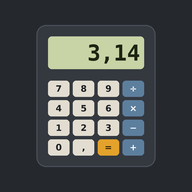
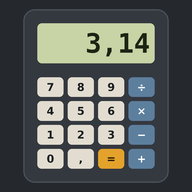
Add files via upload

diff --git a/index.html b/index.html
@@ -360,7 +360,7 @@ function pos(z){
 }
 const nz=s=>s.normalize('NFD').replace(/[\u0300-\u036f]/g,'').toLowerCase();
 const PD='2.20,-259.2,-252.9,0.0899,1312|,,-268.9,0.1786,2372|0.98,180.5,1342,0.534,520|1.57,1287,2470,1.85,900|2.04,2076,3927,2.34,801|2.55,3550,4027,2.267,1087|3.04,-210,-195.8,1.2506,1402|3.44,-218.8,-183,1.429,1314|3.98,-219.7,-188.1,1.696,1681|,-248.6,-246.1,0.9002,2081|0.93,97.8,883,0.971,496|1.31,650,1090,1.738,738|1.61,660.3,2519,2.70,578|1.90,1414,3265,2.329,787|2.19,44.2,280.5,1.823,1012|2.58,115.2,444.6,2.067,1000|3.16,-101.5,-34,3.214,1251|,-189.3,-185.8,1.784,1521|0.82,63.5,759,0.862,419|1.00,842,1484,1.55,590|1.36,1541,2836,2.985,633|1.54,1668,3287,4.506,659|1.63,1910,3407,6.11,651|1.66,1907,2671,7.15,653|1.55,1246,2061,7.21,717|1.83,1538,2861,7.874,763|1.88,1495,2927,8.90,760|1.91,1455,2913,8.908,737|1.90,1084.6,2562,8.96,746|1.65,419.5,907,7.14,906|1.81,29.8,2204,5.91,579|2.01,938.3,2833,5.323,762|2.18,817,614,5.727,947|2.55,221,685,4.81,941|2.96,-7.2,58.8,3.122,1140|3.00,-157.4,-153.4,3.749,1351|0.82,39.3,688,1.532,403|0.95,777,1382,2.64,550|1.22,1526,3345,4.472,600|1.33,1855,4409,6.52,640|1.6,2477,4744,8.57,652|2.16,2623,4639,10.28,684|1.9,2157,4265,11.5,702|2.2,2334,4150,12.37,710|2.28,1964,3695,12.41,720|2.20,1555,2963,12.02,804|1.93,961.8,2162,10.49,731|1.69,321.1,767,8.65,868|1.78,156.6,2072,7.31,558|1.96,231.9,2602,7.31,709|2.05,630.6,1587,6.697,834|2.1,449.5,988,6.24,869|2.66,113.7,184.3,4.93,1008|2.6,-111.8,-108.1,5.894,1170|0.79,28.4,671,1.93,376|0.89,727,1845,3.51,503|1.10,920,3464,6.162,538|1.12,795,3443,6.770,534|1.13,935,3520,6.77,527|1.14,1024,3074,7.01,533|1.13,1042,3000,7.26,540|1.17,1072,1794,7.52,545|1.2,826,1529,5.244,547|1.20,1312,3273,7.90,593|1.1,1356,3230,8.23,566|1.22,1407,2567,8.55,573|1.23,1461,2720,8.80,581|1.24,1529,2868,9.07,589|1.25,1545,1950,9.32,597|1.1,824,1196,6.90,603|1.27,1652,3402,9.84,524|1.3,2233,4603,13.31,659|1.5,3017,5458,16.69,761|2.36,3422,5555,19.25,770|1.9,3186,5596,21.02,760|2.2,3033,5012,22.59,840|2.20,2446,4428,22.56,880|2.28,1768,3825,21.45,870|2.54,1064.2,2856,19.30,890|2.00,-38.8,356.7,13.534,1007|1.62,304,1473,11.85,589|1.87,327.5,1749,11.34,716|2.02,271.4,1564,9.78,703|2.0,254,962,9.196,812|2.2,302,337,,899|2.2,-71,-61.7,9.73,1037|0.7,27,677,,393|0.9,700,1737,5.5,509|1.1,1050,3200,10.07,499|1.3,1750,4820,11.72,587|1.5,1572,,15.37,568|1.38,1135,4131,19.1,598|1.36,644,3900,20.45,605|1.28,640,3228,19.816,585|1.3,1176,2011,12,578|1.3,1345,3110,13.51,581|1.3,1050,,14.78,601|1.3,900,,15.1,608|1.3,860,,8.84,619|1.3,1527,,,627|1.3,827,,,635|1.3,827,,,642|1.3,1627,,,479|'+',,,,|'.repeat(14)+',,,,';
-E.forEach((e,i)=>{e.p=PD.split('|')[i].split(',').map(v=>v===''?null:+v)});
+const PDA=PD.split('|');E.forEach((e,i)=>{e.p=PDA[i].split(',').map(v=>v===''?null:+v)});
 const AM='1,4,7,9,11,12,14,16,19,20,23,24,27,28,31,32,35,40,39,40,45,48,51,52,55,56,59,58,63,64,69,74,75,80,79,84,85,88,89,90,93,98,98,102,103,106,107,114,115,120,121,130,127,132,133,138,139,140,141,142,145,152,153,158,159,164,165,166,169,174,175,180,181,184,187,192,193,195,197,202,205,208,209,209,210,222,223,226,227,232,231,238,237,244,243,247,247,251,252,257,258,259,266,267,268,269,270,277,278,281,282,285,286,289,290,293,294,294'.split(',').map(Number);
 const SH=['1s','2s','2p','3s','3p','4s','3d','4p','5s','4d','5p','6s','4f','5d','6p','7s','5f','6d','7p'],CAP={s:2,p:6,d:10,f:14};
 const EX={Cr:{'3d':5,'4s':1},Cu:{'3d':10,'4s':1},Nb:{'4d':4,'5s':1},Mo:{'4d':5,'5s':1},Ru:{'4d':7,'5s':1},Rh:{'4d':8,'5s':1},Pd:{'4d':10,'5s':0},Ag:{'4d':10,'5s':1},La:{'4f':0,'5d':1},Ce:{'4f':1,'5d':1},Gd:{'4f':7,'5d':1},Pt:{'5d':9,'6s':1},Au:{'5d':10,'6s':1},Ac:{'5f':0,'6d':1},Th:{'5f':0,'6d':2},Pa:{'5f':2,'6d':1},U:{'5f':3,'6d':1},Np:{'5f':4,'6d':1},Cm:{'5f':7,'6d':1},Lr:{'5f':14,'6d':0,'7p':1}};
